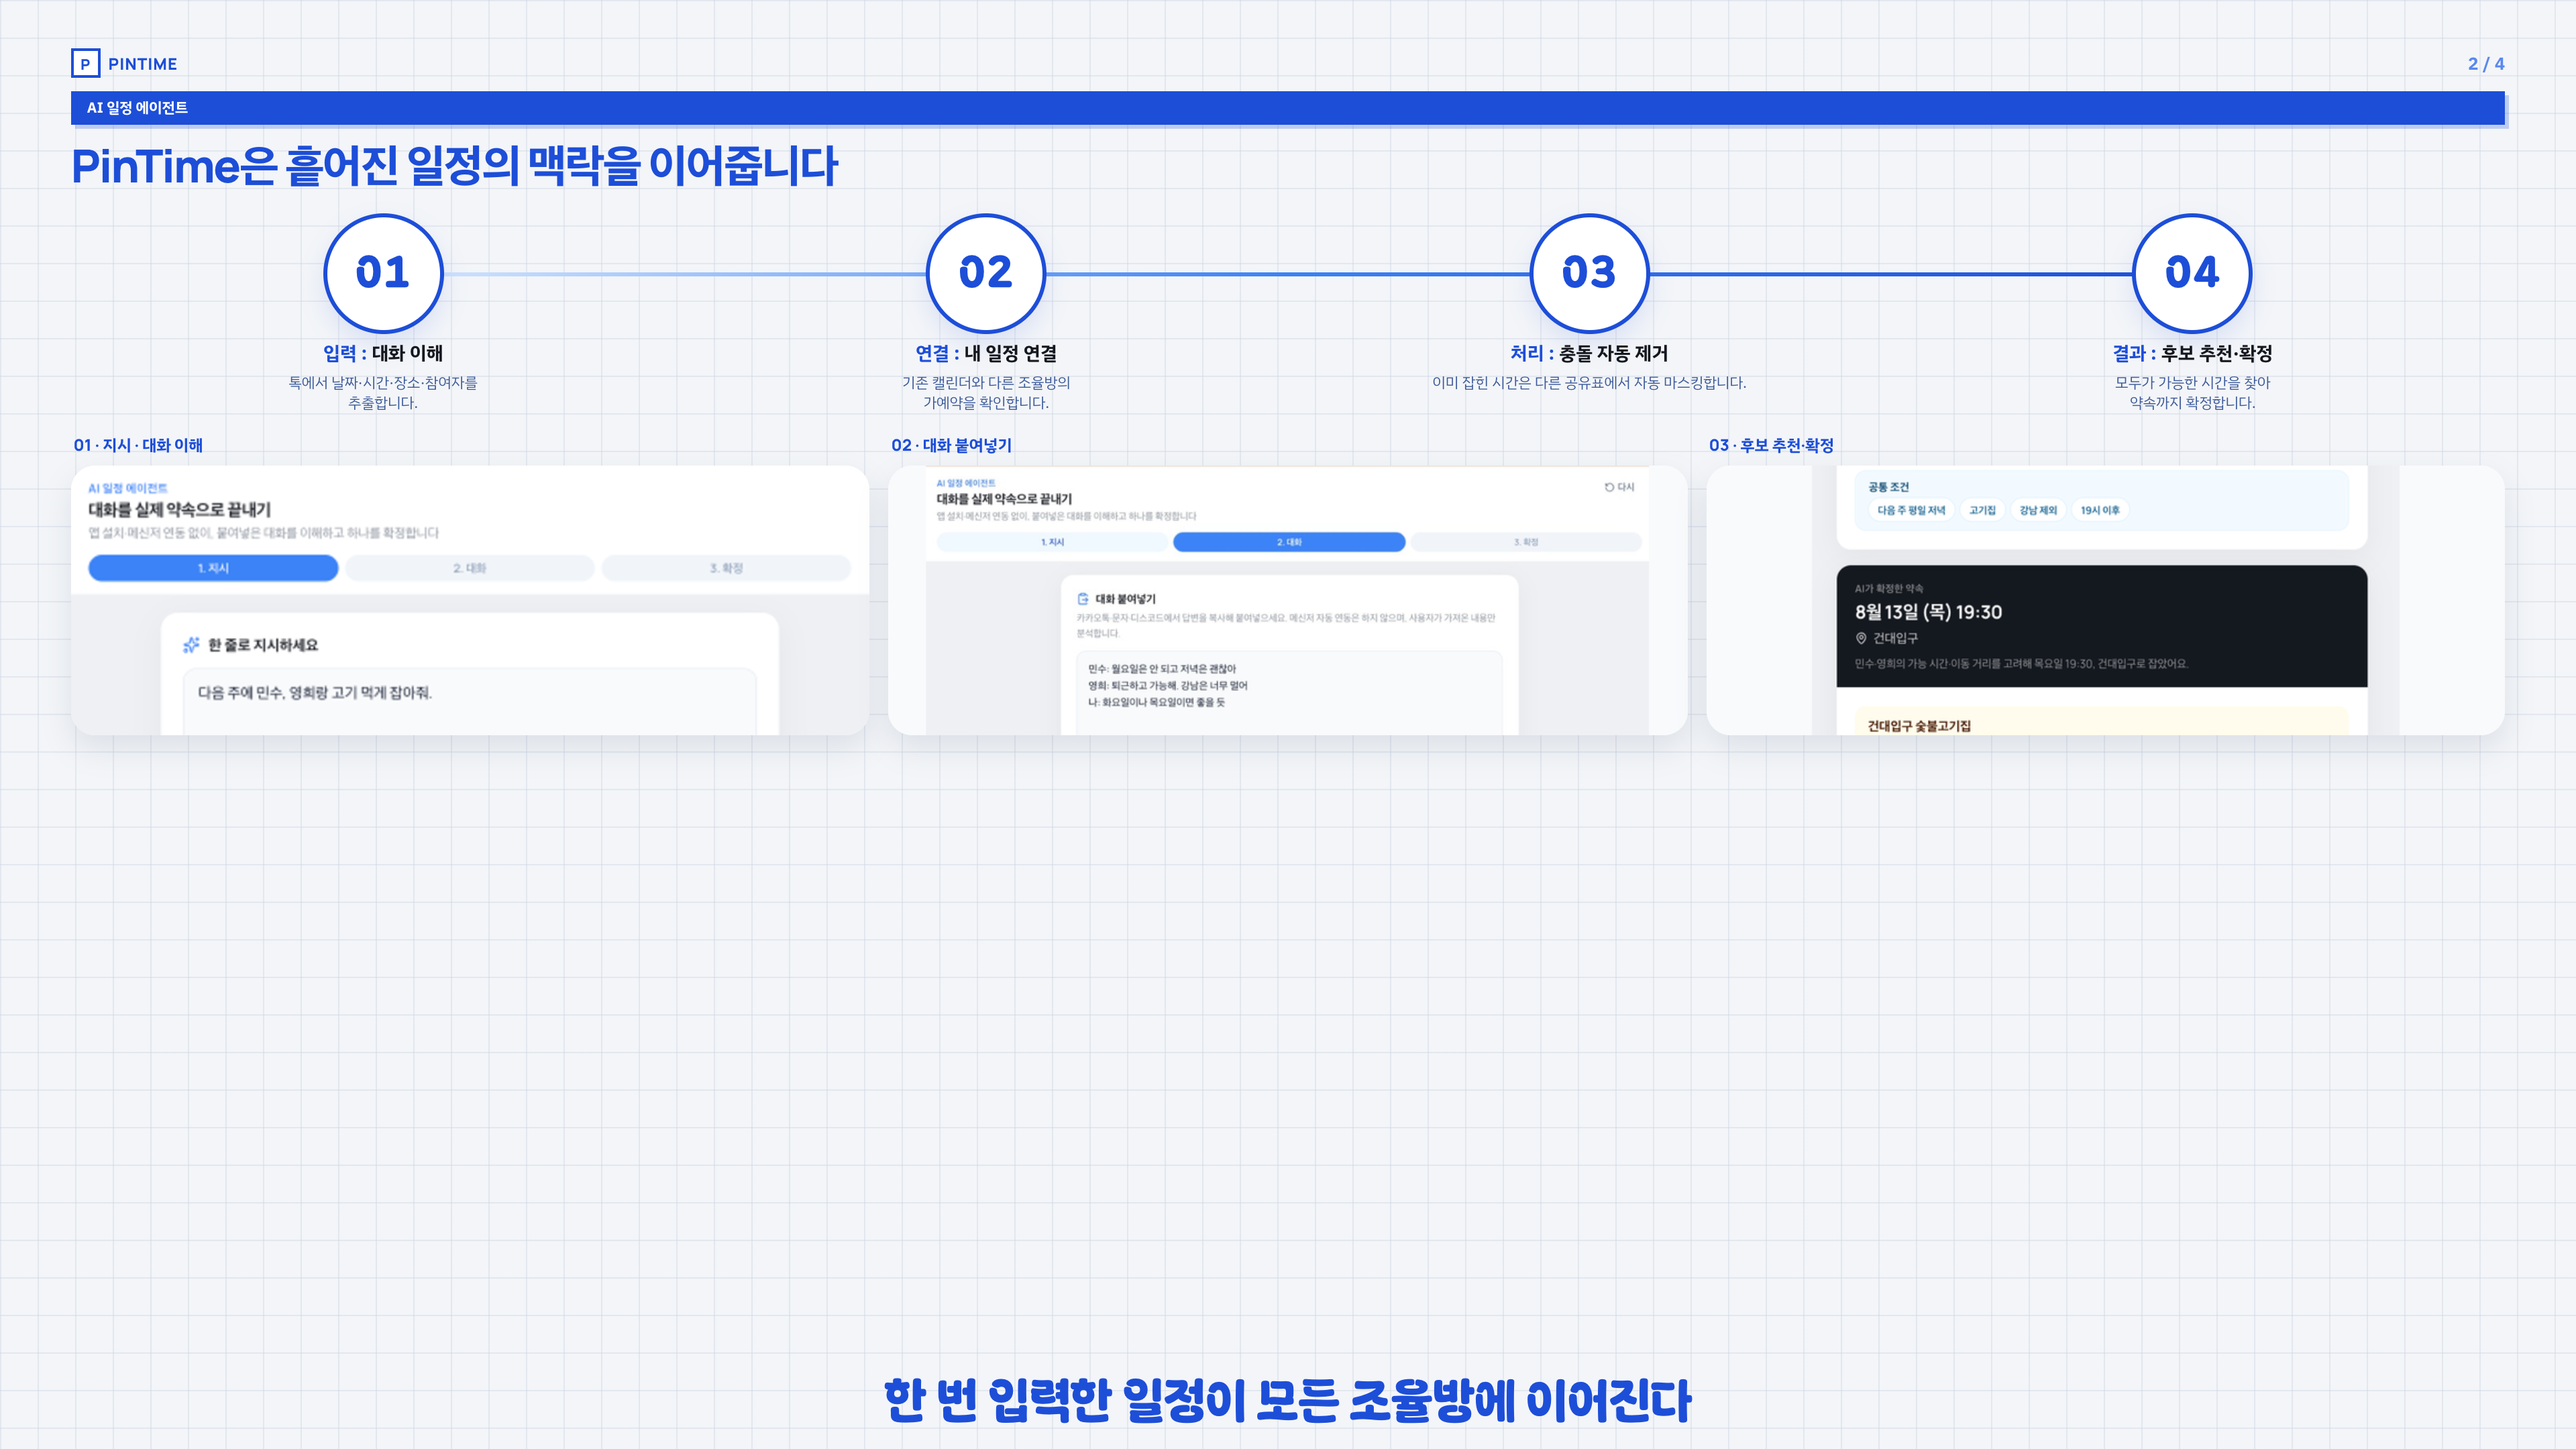
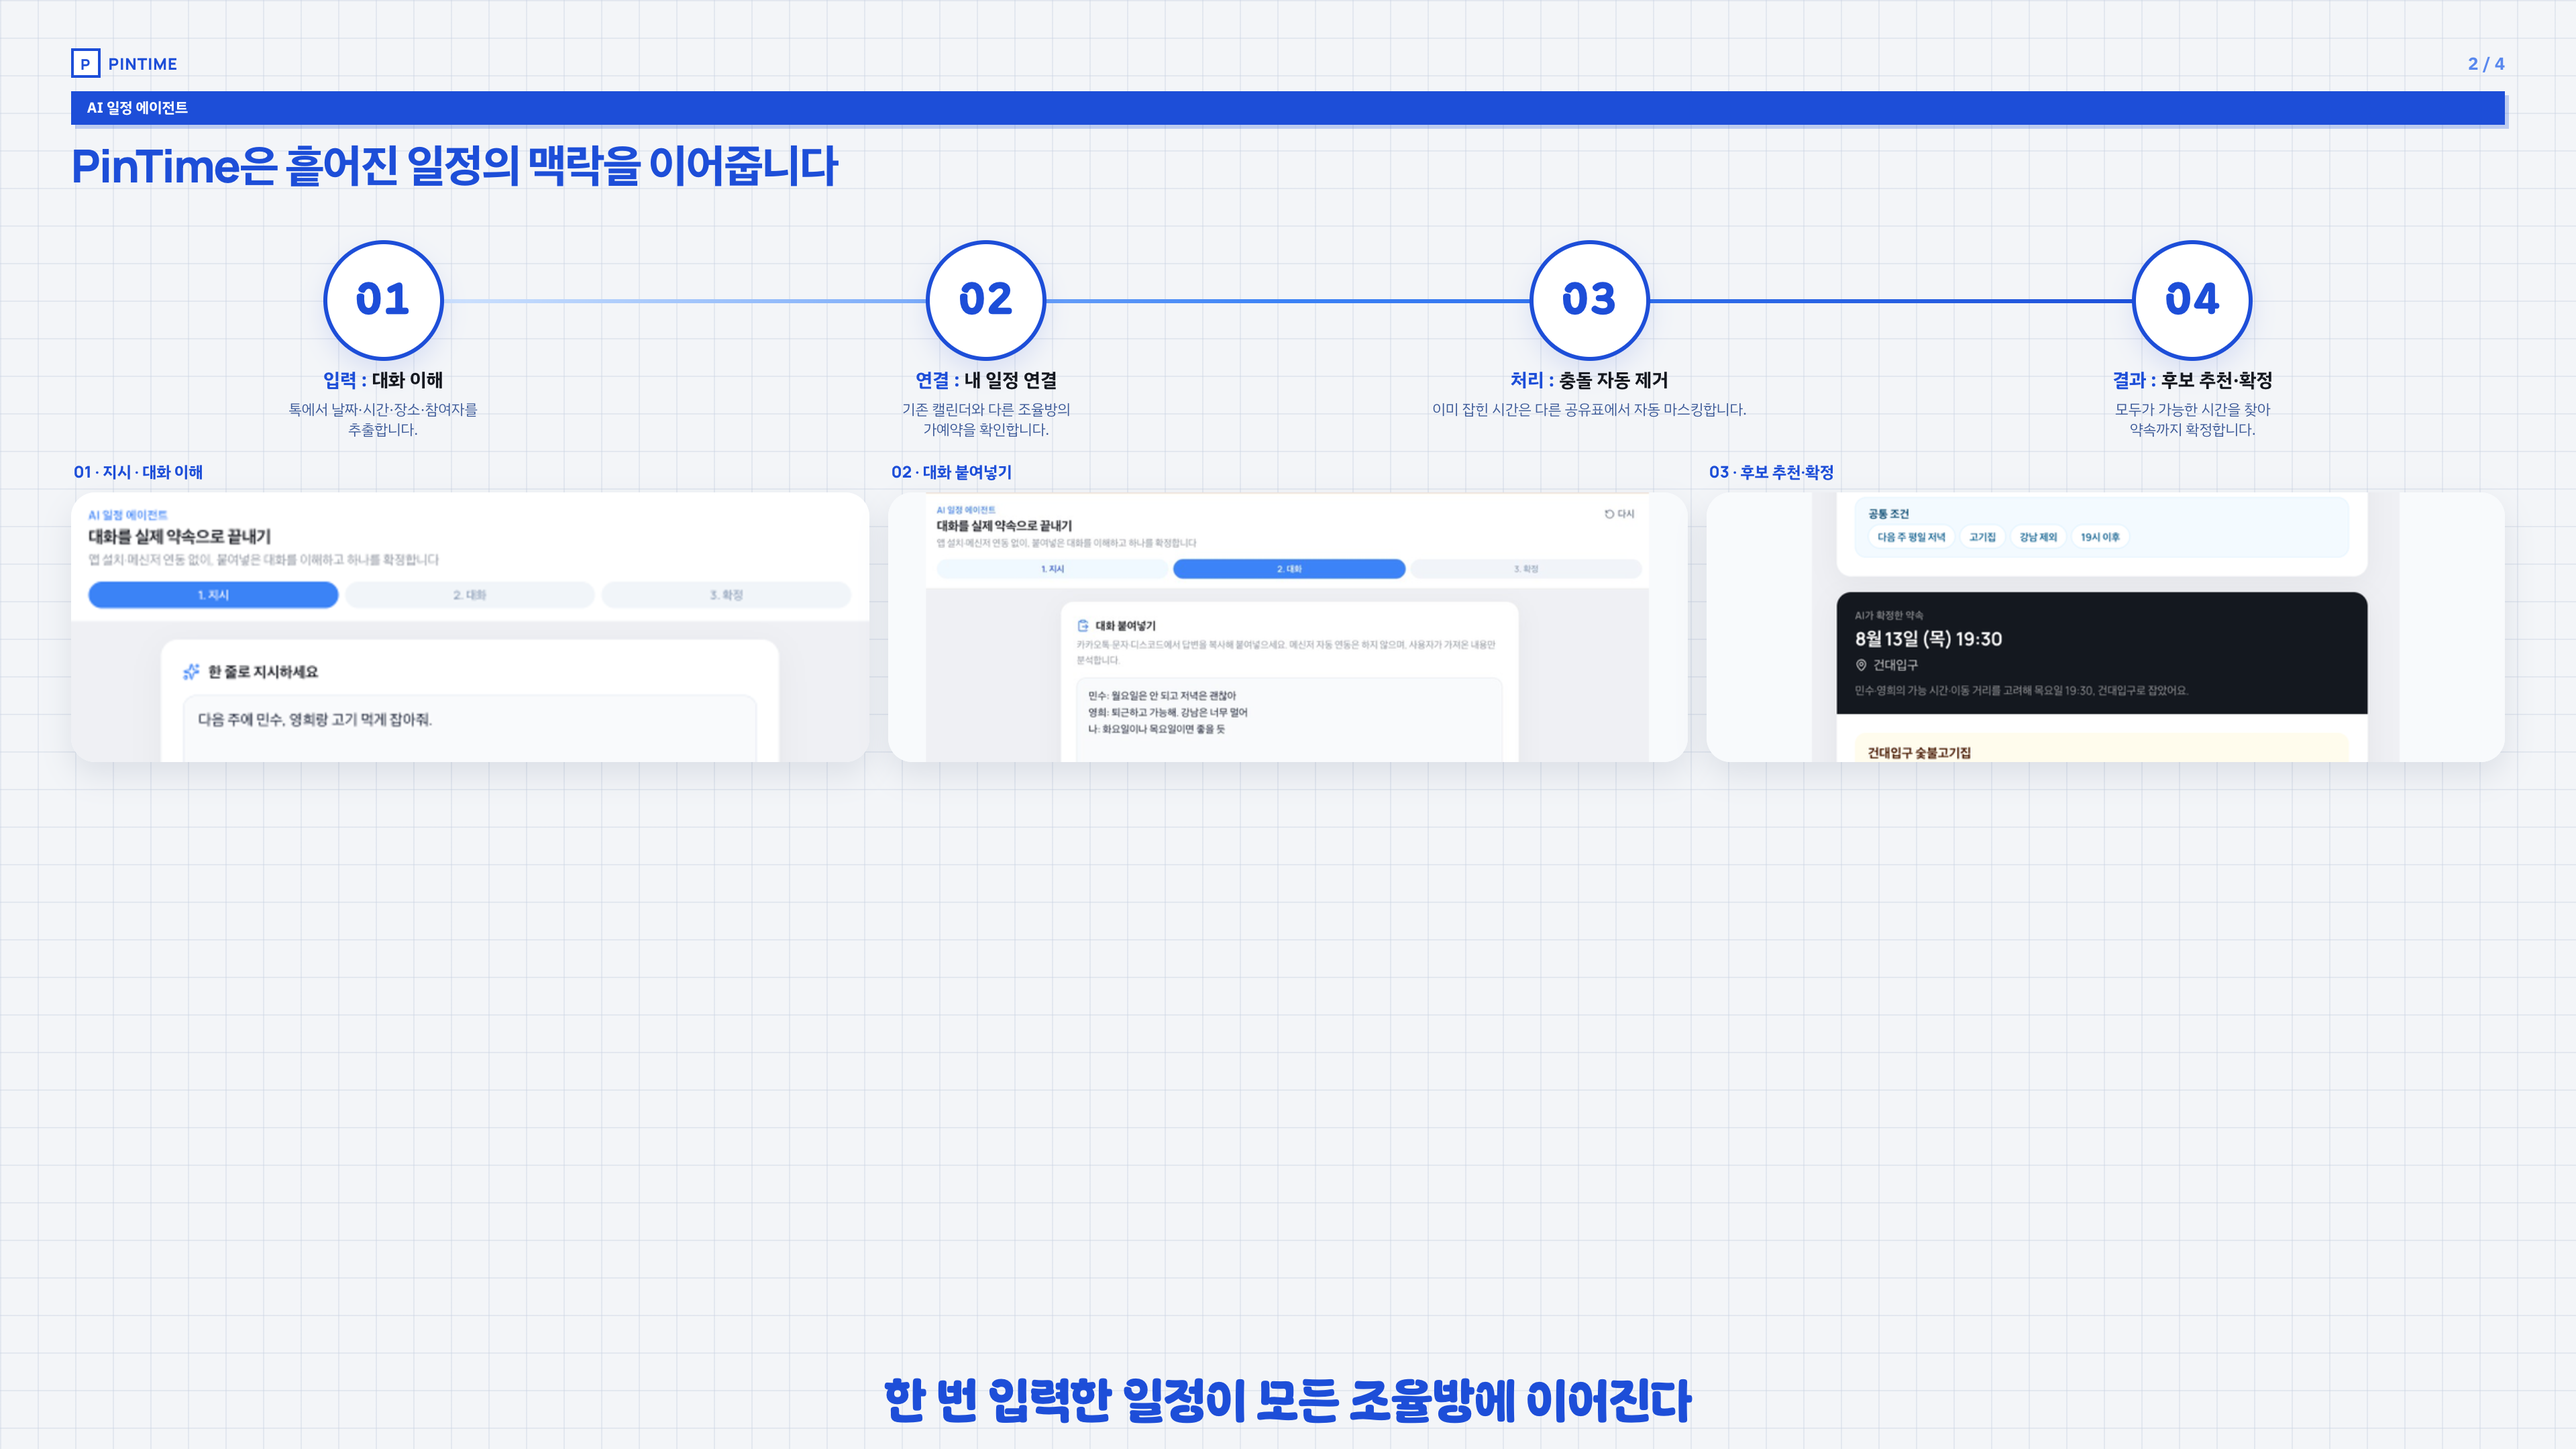
Shift AI pipeline and screenshots down 20px on slide 2/4.

diff --git a/public/pitch.html b/public/pitch.html
@@ -511,7 +511,7 @@
         display: grid;
         grid-template-columns: repeat(4, 1fr);
         gap: 0;
-        margin-top: 14px;
+        margin-top: 34px;
         flex-shrink: 0;
         position: relative;
         padding: 0 8px;
